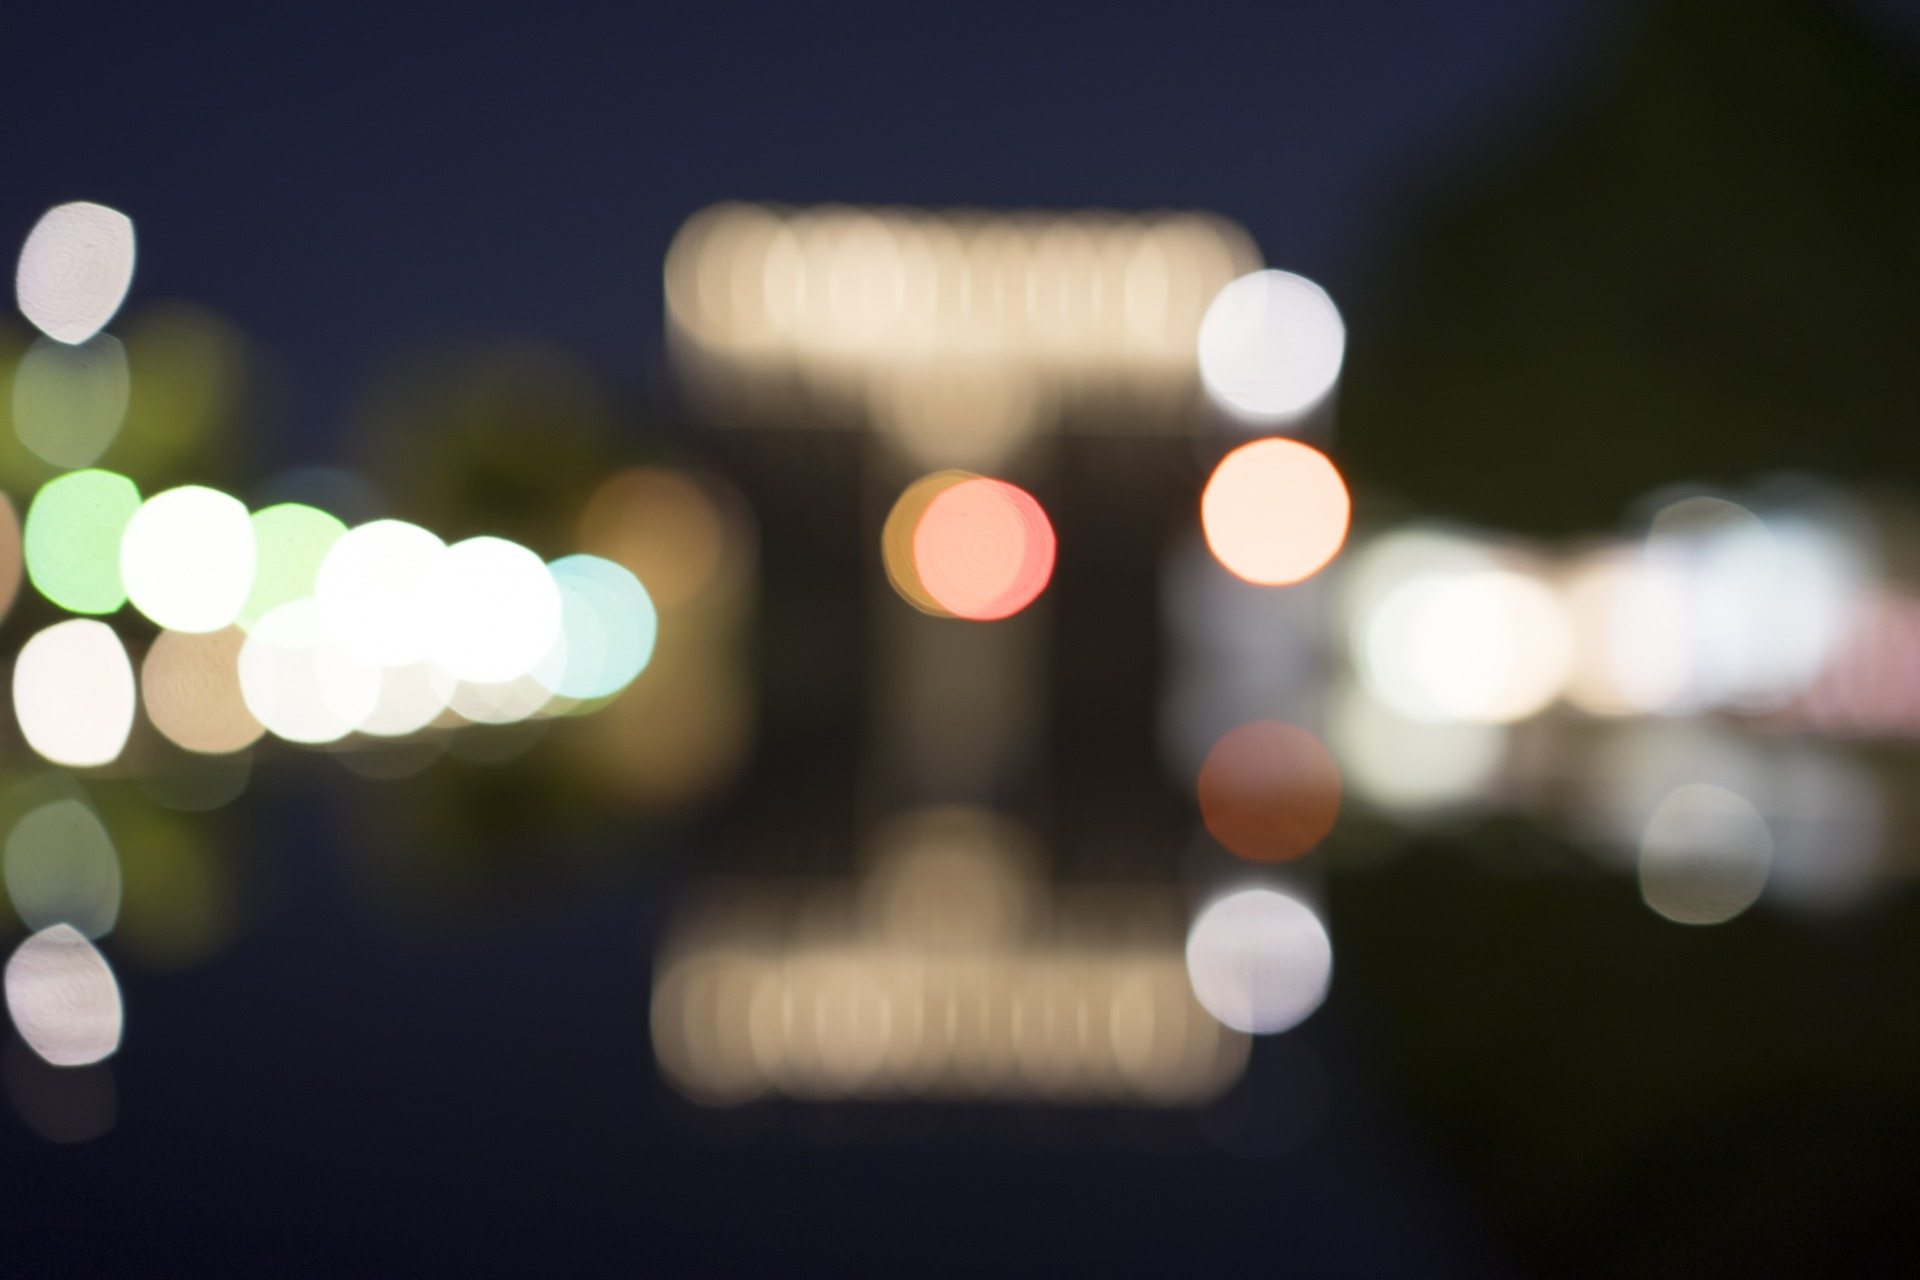
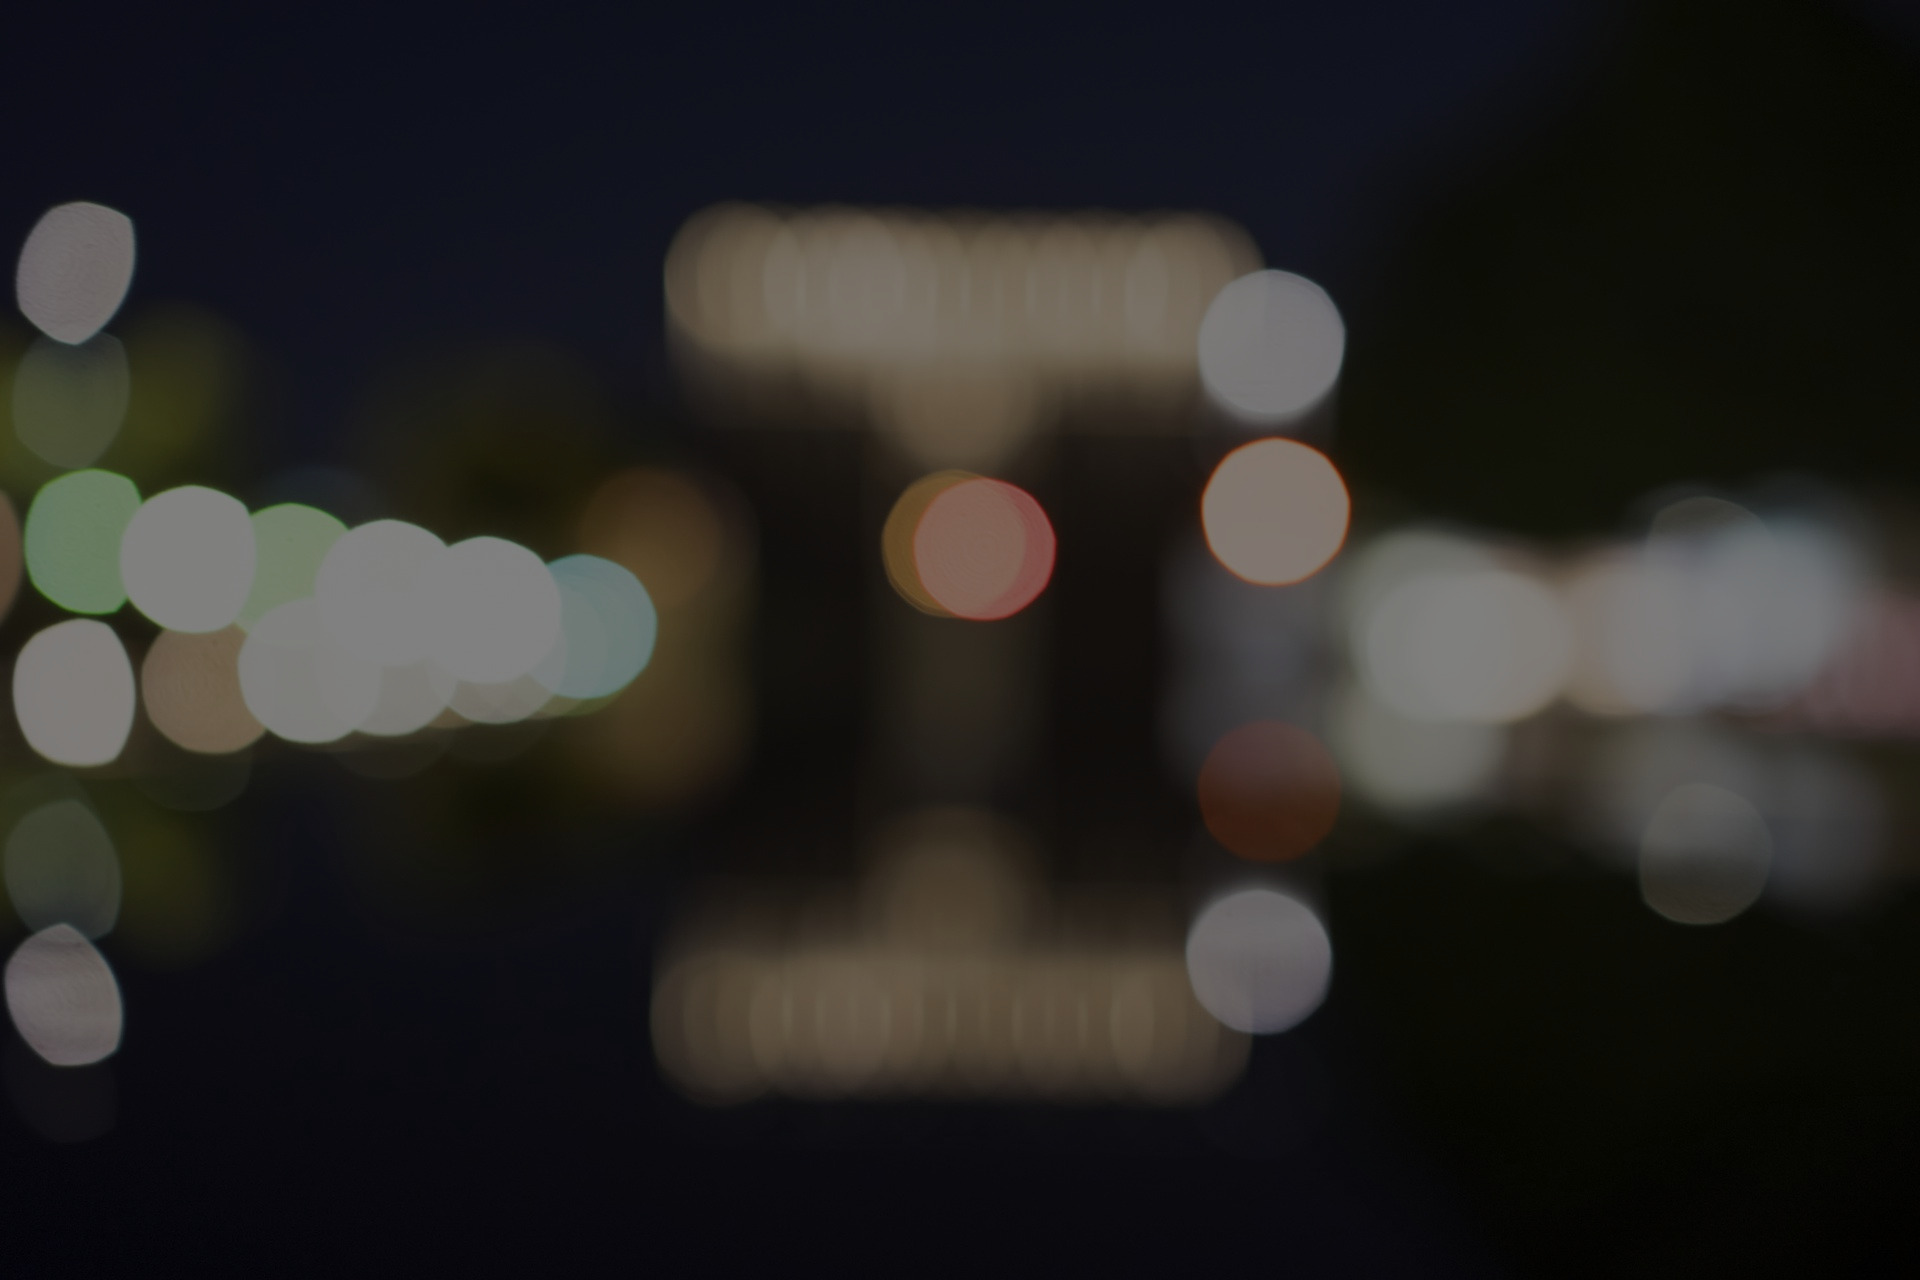
lots of changes
edited images and the layout

diff --git a/css/main.css b/css/main.css
@@ -21,9 +21,13 @@ header {
   padding: 15px 0 0 0;
   width:100%;
 }
+h2 {
+    text-align: center;
+}
+
 .steve {
     margin-top: 0;
-    padding: 1em 0 0 0;
+    padding: 1em 0 3em;
     font-size: 7em;
     text-align: center;
 }
@@ -33,12 +37,26 @@ header {
     font-size: 3em;
     text-align: center;
 }
+
+.construction {
+    padding: 2em 0 0 0;
+    text-align: center;
+    font-size: 6em;
+}
+
 .contact {
     margin-top: 0;
     padding: 1.8em 0 0 0;
     font-size: 3em;
     text-align: center;
 }
+
+.lastp {
+    font-size: 25px;
+    margin: auto;
+    padding: 20px;
+}
+
 p{
    margin: 10px;
     width: 100%;
@@ -80,7 +98,7 @@ li a {
     display: block;
     color: white;
     text-align: center;
-    padding: 14px 16px;
+    padding: 19px 16px 13px;
     text-decoration: none;
 }
 
@@ -98,7 +116,7 @@ Pages
 ***************************************/
 #page1 {
     background: url(/img/sky.jpg) no-repeat;
-    height: 800px;
+    height: 790px;
     margin: -20px -10px 0;
  }
 
@@ -106,13 +124,13 @@ Pages
 #page2 {
     background: url(/img/blurrLights.jpg) no-repeat;
     background-color: #a4cfd0;
-    height: 800px;
+    height: 790px;
     margin: 0 -10px;
 }
 
 #page3 {
-    background: url(/img/grass.jpg) no-repeat;
-    height: 800px;
+    background: url(/img/wood.jpg) no-repeat;
+    height: 790px;
     margin: 0 -10px;
 }
 .me {

diff --git a/index.html b/index.html
@@ -39,6 +39,7 @@ I'm also a freelance artist! If you would like to follow me on Instagram, my use
 <div id="page2">
   <a id="portfolio" class="smooth"></a>
     <h1 class="work">My work.</h1>
+    <p class="under construction">Zoinks! Under Construction!</p>
 </div>
  
 <div id="page3">
@@ -46,7 +47,7 @@ I'm also a freelance artist! If you would like to follow me on Instagram, my use
     <h1 class="contact"> Lets get to know each other. </h1>
     <img src="img/picEdit3.png" alt="Steven" class="me">
 
-<p>This site is currently under cunstruction as I learn new techniques. If you have any questions, please don't hesitate to shoot me an e-mail.
+<p class="lastp">This site is currently under cunstruction as I learn new techniques. If you have any questions, please don't hesitate to shoot me an e-mail.
 
 Contact Details
 
